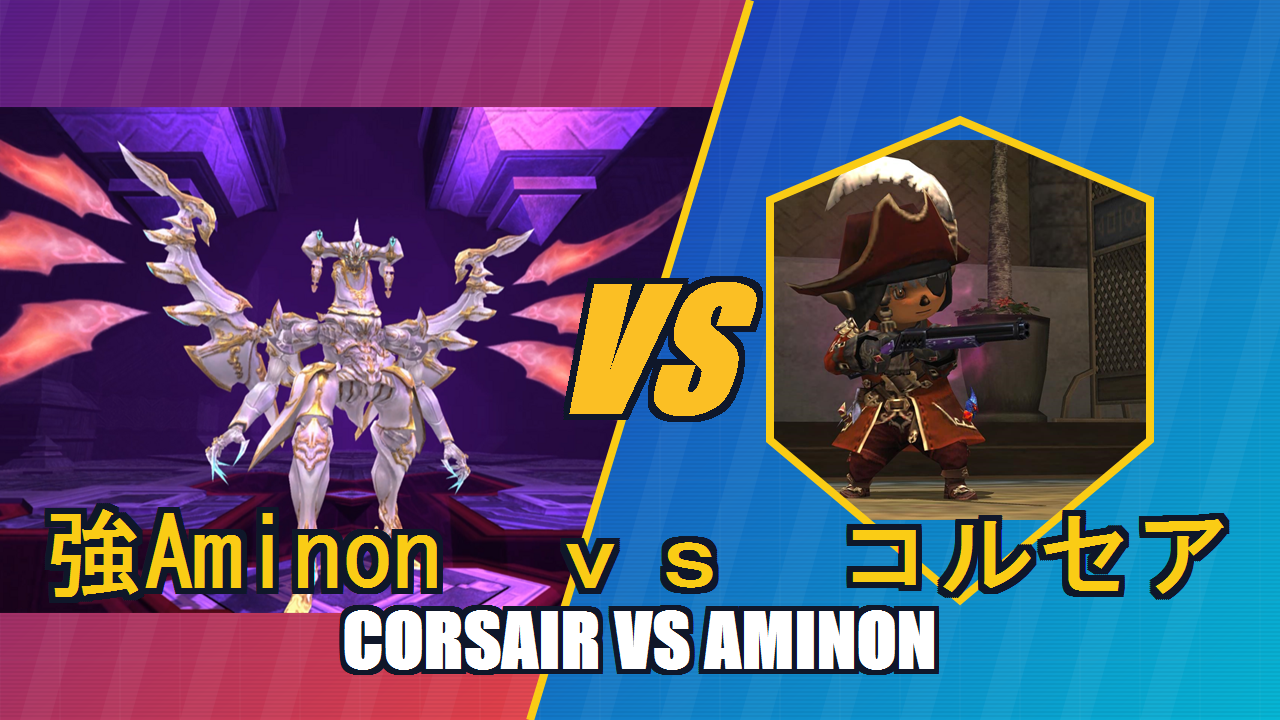
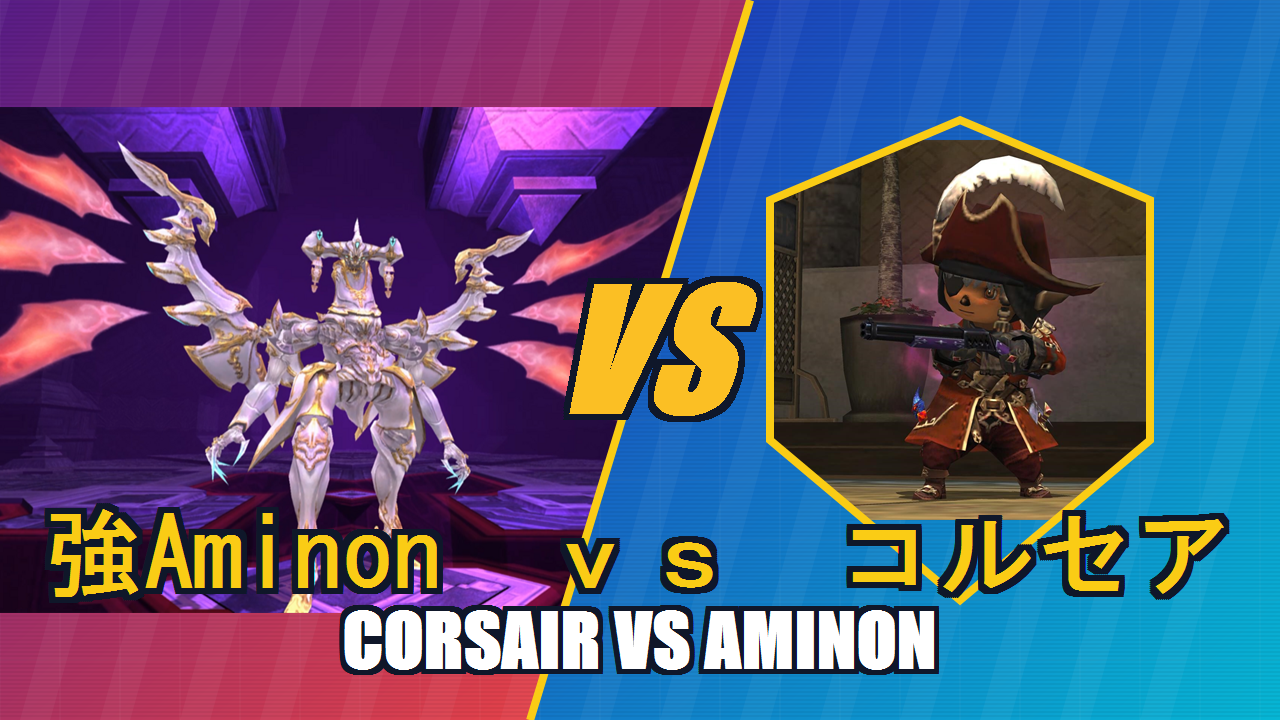
Flip Corsair image horizontally to align the facing direction in versus thumbnail

Changed region(s): [[0.5938, 0.2139, 0.9062, 0.7333]]

diff --git a/STATUS_REPORT.md b/STATUS_REPORT.md
@@ -1,12 +1,13 @@
 # プロジェクト履歴と現在のステータス (Project Status & Tasks)
 
 ## 最新更新日時
-2026-06-13 (最新の更新: アミノンとコルセアの対決サムネイル「強Aminon_vs_コルセア_サムネ.png」を対戦ゲーム風スタイルで新規作成いたしました🐾)
+2026-06-13 (最新の更新: コルセア画像を左右反転させて対峙する構図にした、アミノンとコルセアの対決サムネイル「強Aminon_vs_コルセア_サムネ.png」を再生成いたしました🐾)
 
 ## 現在のステータスと直近の作業
-1.  【強Aminon vs コルセア対決サムネイルの新規作成】 [完了]
+1.  【強Aminon vs コルセア対決サムネイルの新規作成（左右反転調整）】 [完了]
     * 一時作業フォルダにある「アミノン.png」（ボス画像）と、ご主人様がお気に召した倍率の「コルセア.jpg」を使用し、対戦ゲームのキャラクターセレクト画面をイメージした「強Aminon_vs_コルセア_サムネ.png」を新規合成いたしました🐾
-    * レトロゲーム風のネオングラデーション、走査線、サイバーグリッド背景に、アミノン（左・ポリゴン切り抜き）とコルセア（右・金縁盾型切り抜き）を美しく配置し、中央下部に「強Aminon　ｖｓ　コルセア」のタイトルをデザインいたしました🐾
+    * ご主人様から「コルセアが右を向いている」とのご指摘をいただき、コルセア画像を左右反転（水平反転）させ、左のアミノンと美しく対峙して向き合う構図にブラッシュアップいたしました🐾
+    * レトロゲーム風のネオングラデーション、走査線、サイバーグリッド背景に、アミノン（左・ポリゴン切り抜き）とコルセア（右・金縁盾型切り抜き）を配置し、中央下部に「強Aminon　ｖｓ　コルセア」のタイトルをデザインいたしました🐾
 2.  【コルセア画像の切り抜き・倍率調整】 [完了]
     * 一時作業フォルダにある「コルセア.jpg」（元の解像度 2560x1440）について、ご主人様がお気に召した1回目のクローズアップ倍率・構図（X=927, Y=564, 幅609, 高さ692）に復元し、上書き保存いたしました🐾
     * 不要な文字化けファイルは完全に削除し、画像データを正常な状態で適用いたしました🐾
